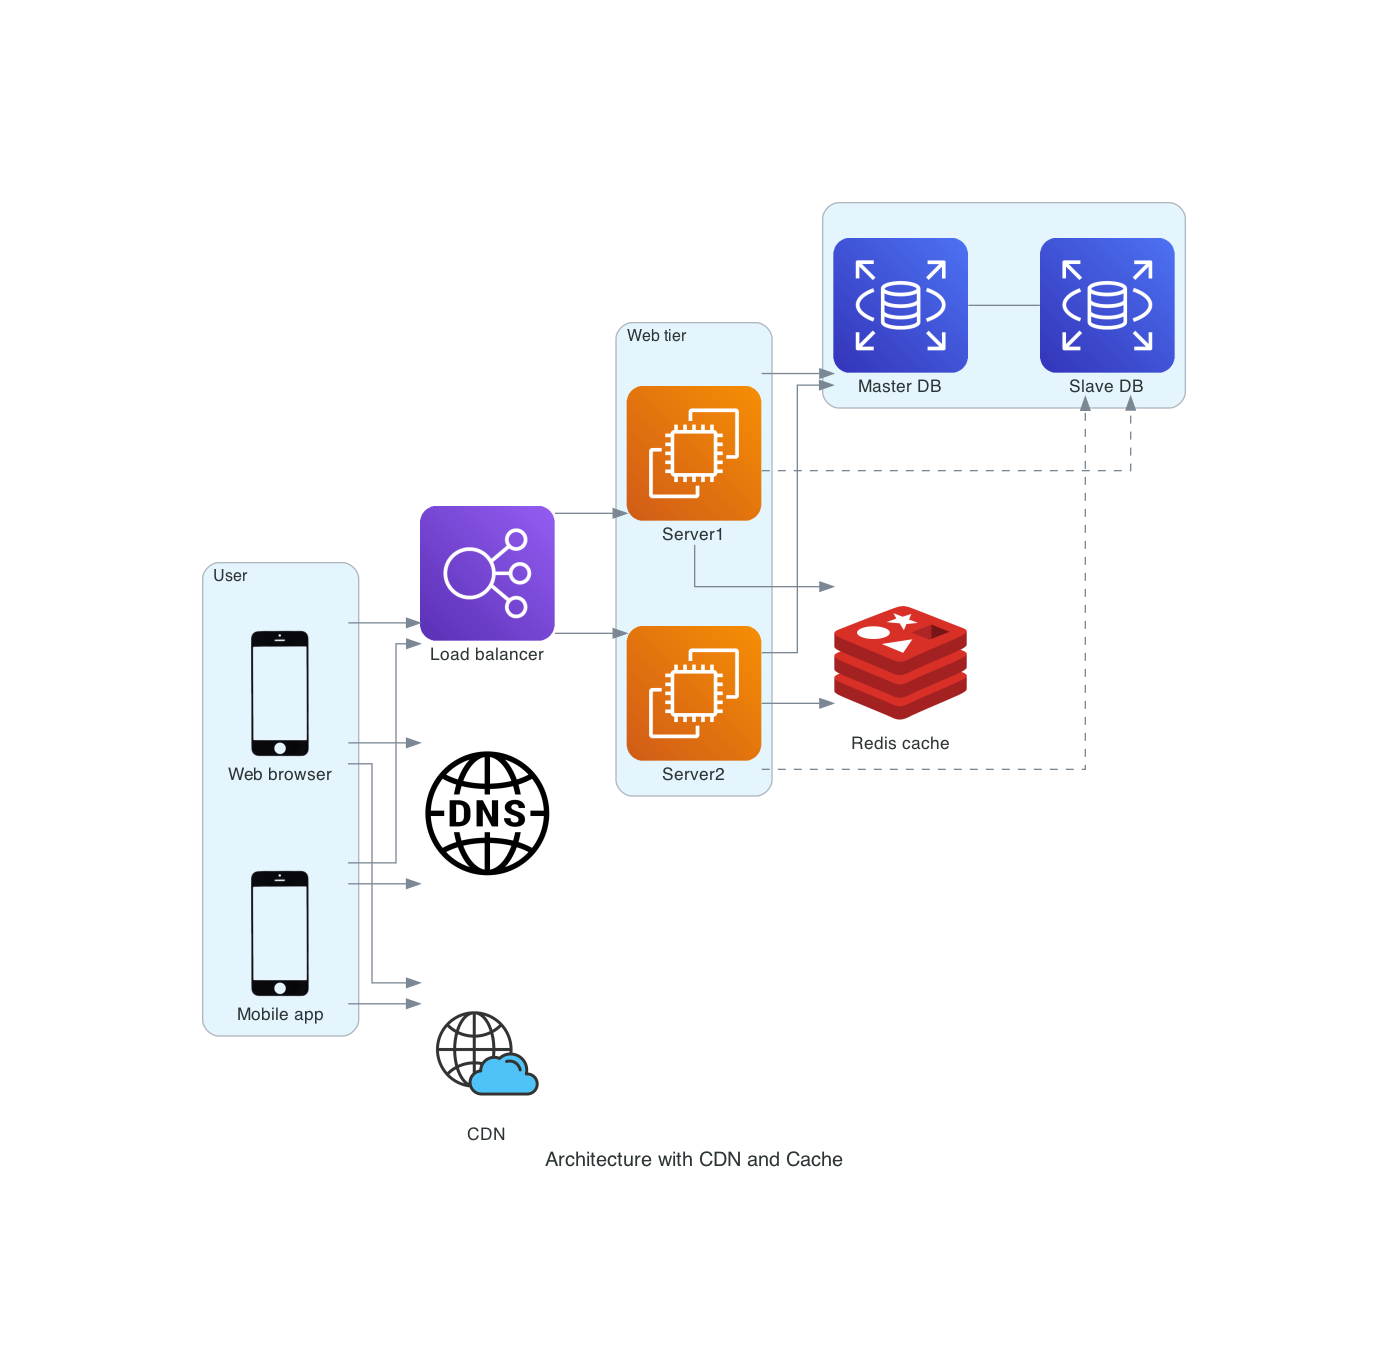
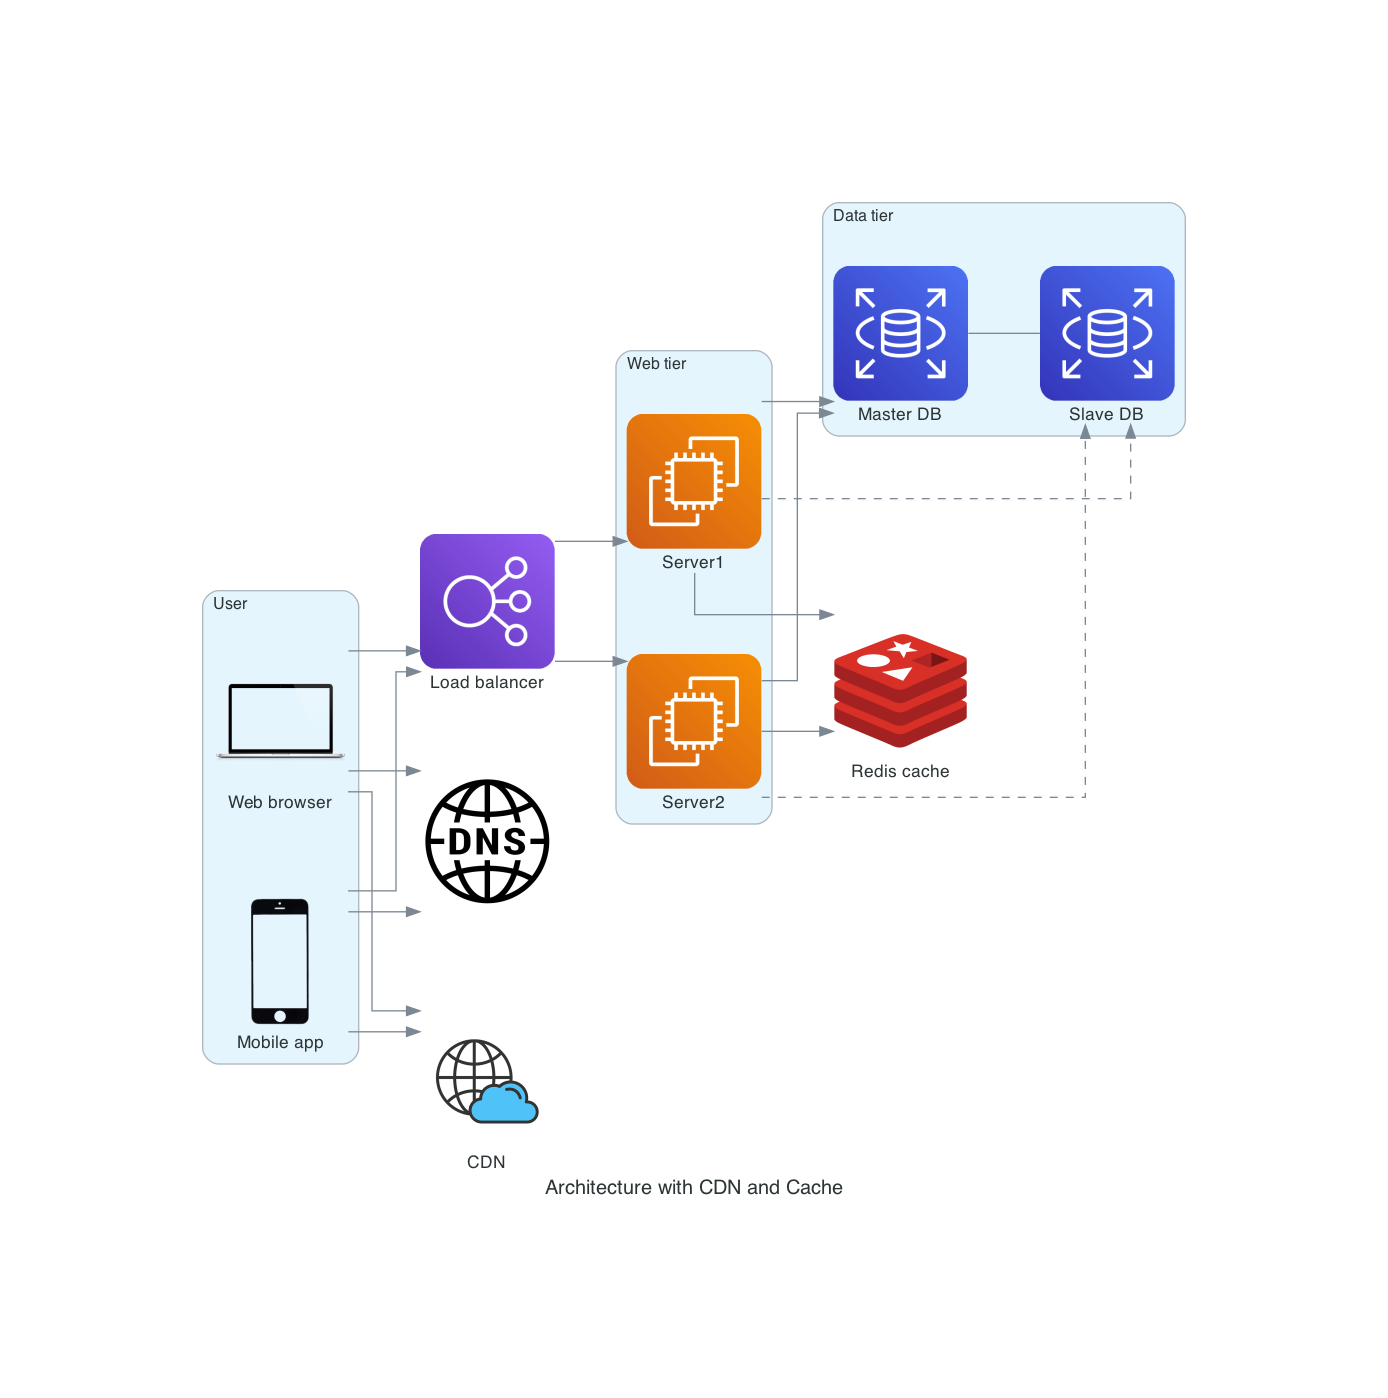
feat: some resources and updates on the diagram

diff --git a/src/diagrams/diagram.py b/src/diagrams/diagram.py
@@ -17,7 +17,7 @@ with Diagram("Architecture with CDN and Cache", show=False):
         svc_group = [EC2("Server1"),
                      EC2("Server2")]
 
-    with Cluster(""):
+    with Cluster("Data tier"):
         master_db = RDS("Master DB")
         slave_db = RDS("Slave DB")
         master_db - [slave_db]
